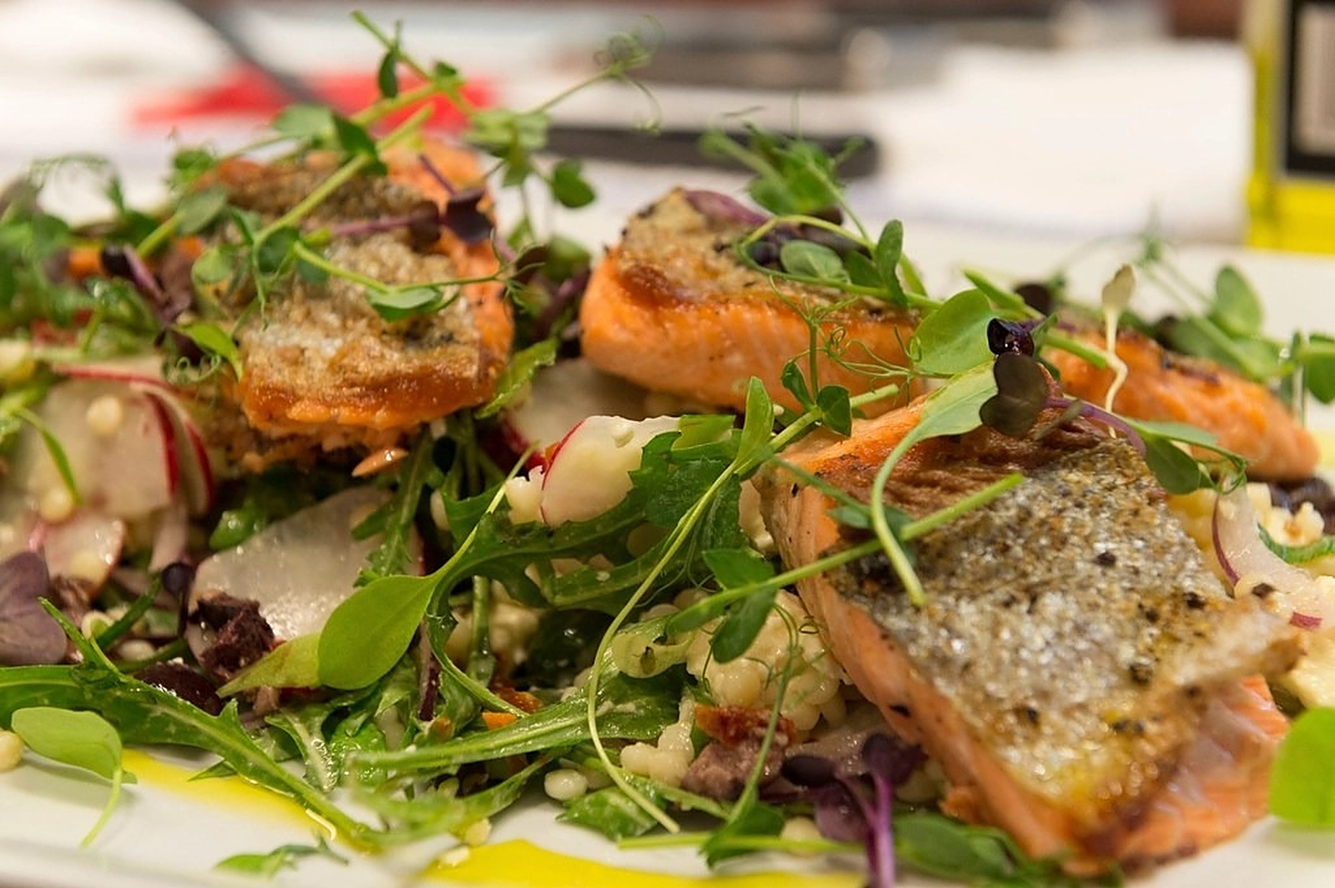
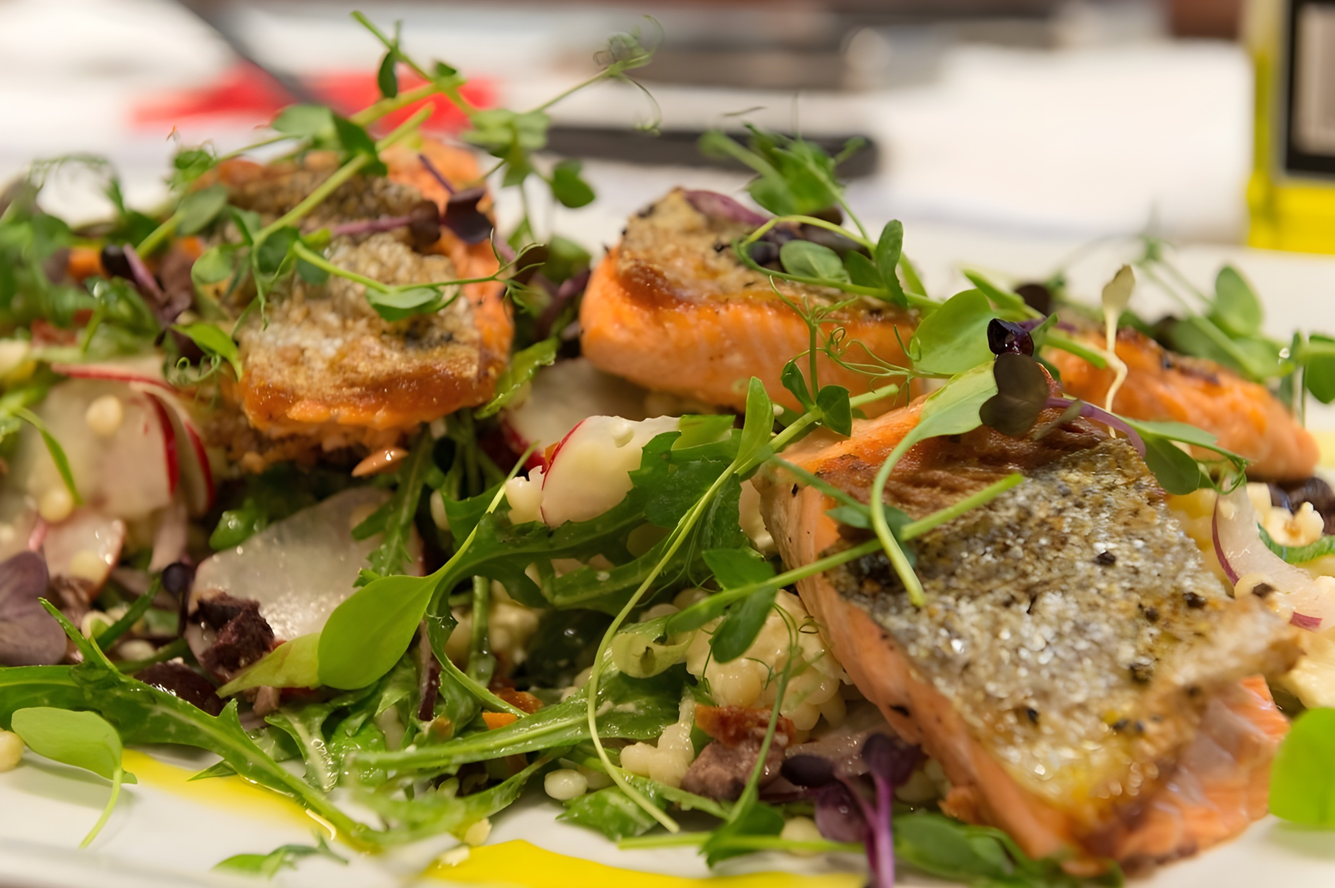
news_demo2: AI-upscaled photos; find_media cache moved out of TMPDIR
Setting TMPDIR made Chromium crash at launch during renders.

Claude-Session: https://claude.ai/code/session_016GVK7uZxMDPXhrzTSuNu9h

diff --git a/projects/news_demo2/scene.html b/projects/news_demo2/scene.html
@@ -11,8 +11,7 @@
 // No voice yet: times are fixed; a real video keys them to CUE.
 window.DURATION = 36;
 const svg = NewsStage();
-const SZ = { bedroom: [2112, 1402], bp_arm: [2112, 1273], bp_care: [2112, 1433], bp_monitor: [2112, 1207], brain: [2112, 1408],
-  burger: [2112, 1409], couple: [2112, 1408], plate: [2112, 1281], salmon: [2112, 1405], steth: [2112, 1409] };
+const SZ = {bedroom: [2112, 1402], bp_arm: [2112, 1273], bp_care: [2112, 1433], bp_monitor: [2112, 1207], brain: [2112, 1408], brain_old: [2112, 1774], burger: [2112, 1409], couple: [2112, 1408], doctor_desk: [2112, 1408], plate: [2112, 1281], salmon: [2112, 1405], steth: [2112, 1409]};
 const img = n => ({ href: 'assets/' + n + '.jpg', iw: SZ[n][0], ih: SZ[n][1] });
 const photo = (g, n, o) => Photo(g, 'assets/' + n + '.jpg', { iw: SZ[n][0], ih: SZ[n][1], ...o });
 const shots = [];

diff --git a/.claude/skills/health-news/scripts/find_media.py b/.claude/skills/health-news/scripts/find_media.py
@@ -12,7 +12,9 @@ import argparse, io, json, os, re, sys, time, urllib.error, urllib.parse, urllib
 # Wikimedia's robot policy needs a descriptive agent with a contact URL, and polite pacing.
 UA = {'User-Agent': 'health-news-video/1.0 (https://github.com/kittiequizzz-sudo/healthyxzzs) python-urllib'}
 OK = re.compile(r'^(cc0|public domain|pd|cc by(-sa)? ?[0-9.]*|cc-by(-sa)?-[0-9.]+)$', re.I)
-CACHE = os.path.join(os.environ.get('TMPDIR', '/tmp'), 'find_media_last.json')
+# candidates of every search, so `get` can fetch them later (not TMPDIR: setting it breaks Chromium renders)
+CACHE = os.path.expanduser('~/.cache/health-news/find_media_last.json')
+os.makedirs(os.path.dirname(CACHE), exist_ok=True)
 
 
 def fetch(url, data=False, tries=5):
@@ -101,7 +103,7 @@ def search(a):
             r['error'] = str(e)[:60]
         ImageDraw.Draw(sheet).text(((k % c) * W + 6, (k // c) * H + 6), r['id'], fill='yellow')
         print(f"{r['id']:>12}  {r['w']}x{r['h']}  {r.get('source', 'commons'):<10} {r['license']:<14} {r['title'][:60]}  {r.get('error', '')}")
-    out = a.sheet or os.path.join(os.environ.get('TMPDIR', '/tmp'), 'find_media_sheet.jpg')
+    out = a.sheet or os.path.expanduser('~/.cache/health-news/find_media_sheet.jpg')
     sheet.save(out); print('contact sheet:', out)
 
 

diff --git a/.claude/skills/health-news/references/sourcing-and-sound.md b/.claude/skills/health-news/references/sourcing-and-sound.md
@@ -6,7 +6,6 @@ and the voice. You find every other picture and make all the sound. Worked examp
 
 ## Photos: `scripts/find_media.py`
 ```
-export TMPDIR=<scratchpad>
 python3 .claude/skills/health-news/scripts/find_media.py search "blood pressure" --n 8 --sheet <scratchpad>/s1.jpg
 python3 .claude/skills/health-news/scripts/find_media.py search "heart anatomy" --src science --sheet <scratchpad>/s2.jpg
 python3 .claude/skills/health-news/scripts/find_media.py get projects/<slug> bp_arm oca98fa9d
